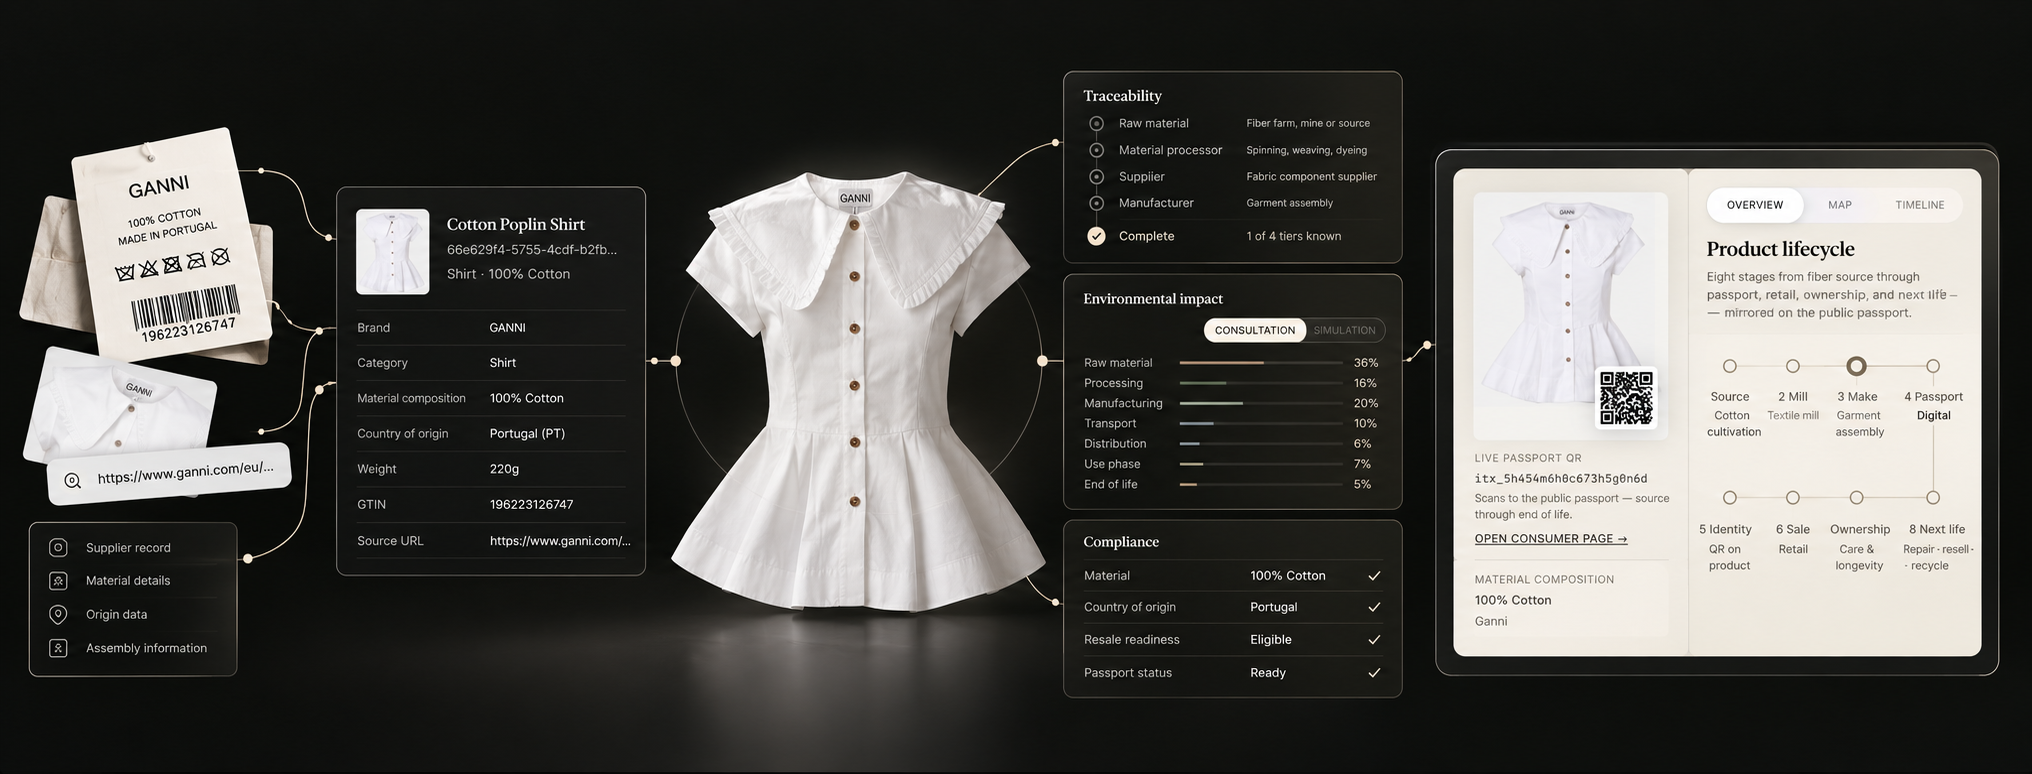
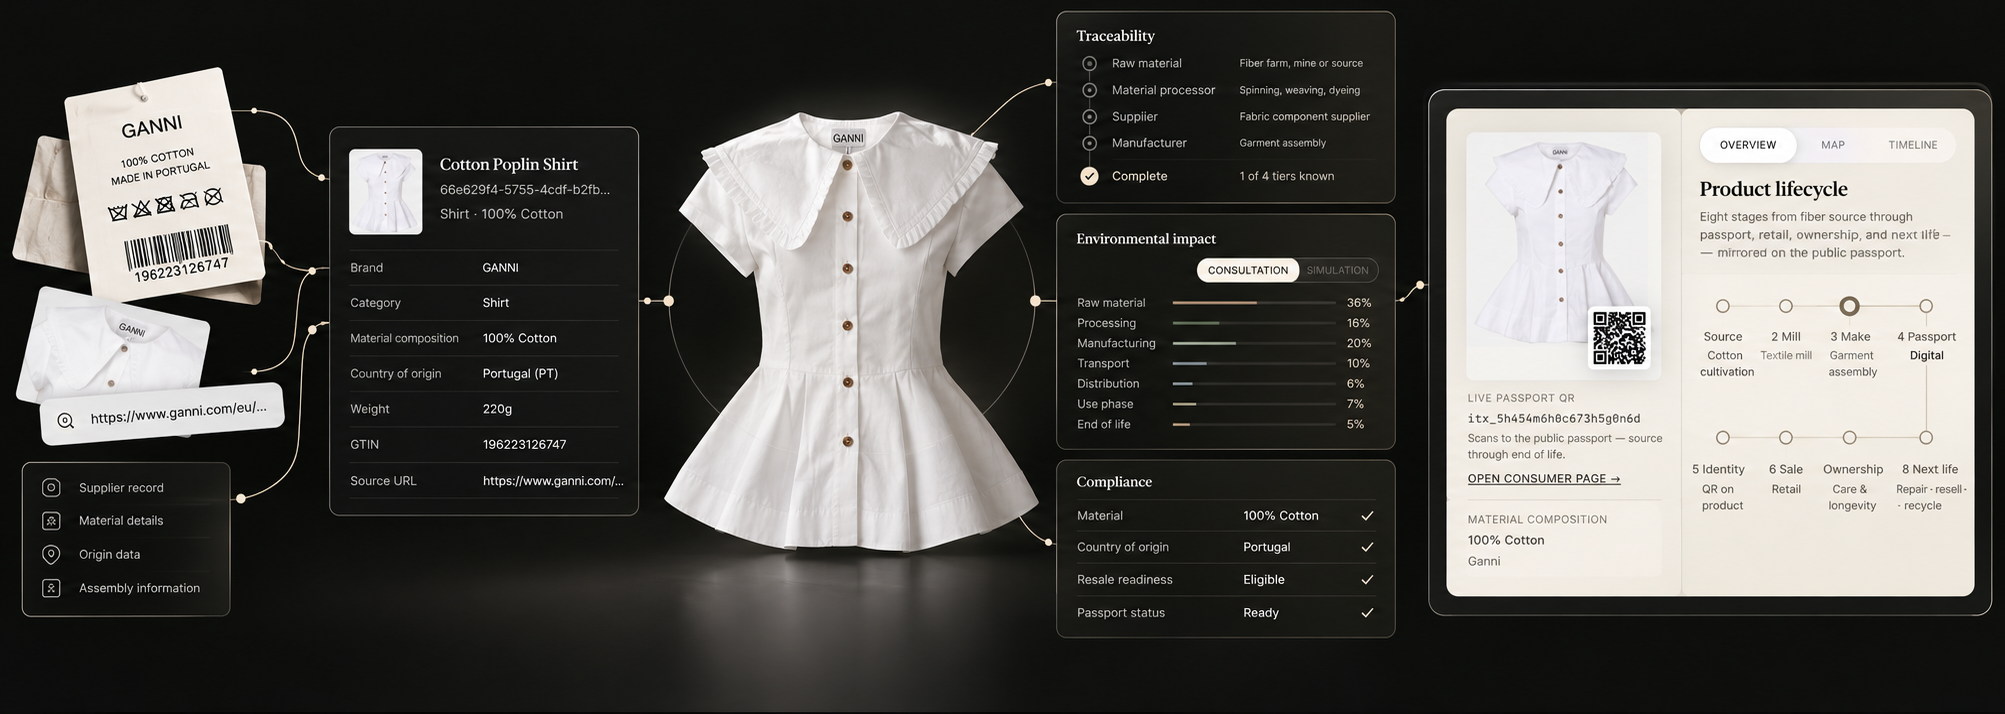
Zoom See it Live hero to cut empty dark margins
Crop top padding from the passport graphic and widen the stage
so the composition fills the frame without oversized side gutters.

diff --git a/app/platform/solutions/solutions.css b/app/platform/solutions/solutions.css
@@ -502,15 +502,15 @@ button.solution-card {
 }
 
 .governed-opener-visual {
-  /* Keep the ultrawide passport graphic compact so more page shows below */
-  width: min(1080px, 100%);
-  margin: 0.75rem auto 0;
+  /* Wider stage so the passport graphic fills the frame without huge side gutters */
+  width: min(1360px, 100%);
+  margin: 0.55rem auto 0;
   flex: 0 0 auto;
   display: flex;
   align-items: center;
   justify-content: center;
   min-height: 0;
-  padding: 0 1rem 1.25rem;
+  padding: 0 0.5rem 1rem;
   background: transparent;
   overflow: visible;
   animation: governed-opener-rise 0.85s ease-out 0.12s both;
@@ -518,18 +518,18 @@ button.solution-card {
 
 @media (min-width: 900px) {
   .governed-opener-visual {
-    width: min(1120px, calc(100% - 3rem));
-    margin-top: 0.35rem;
-    padding: 0 1rem 1.5rem;
+    width: min(1480px, calc(100% - 1.5rem));
+    margin-top: 0.25rem;
+    padding: 0 0.5rem 1.15rem;
   }
 }
 
 .governed-opener-image {
   display: block;
   width: 100%;
-  max-width: 1120px;
+  max-width: 1480px;
   height: auto;
-  max-height: min(42vh, 420px);
+  max-height: min(54vh, 560px);
   margin: 0 auto;
   background: transparent !important;
   object-fit: contain;
@@ -540,19 +540,19 @@ button.solution-card {
 
 @media (min-width: 900px) {
   .governed-opener-image {
-    max-width: 1120px;
-    max-height: min(46vh, 460px);
+    max-width: 1480px;
+    max-height: min(58vh, 620px);
   }
 }
 
 @media (max-width: 639px) {
   .governed-opener-visual {
-    width: min(100%, calc(100% - 0.5rem));
-    padding: 0 0.5rem 1rem;
+    width: min(100%, calc(100% - 0.25rem));
+    padding: 0 0.25rem 0.85rem;
   }
 
   .governed-opener-image {
-    max-height: min(36vh, 280px);
+    max-height: min(42vh, 340px);
   }
 }
 

diff --git a/app/platform/GovernedRecordStageSection.tsx b/app/platform/GovernedRecordStageSection.tsx
@@ -28,10 +28,10 @@ export function GovernedRecordStageSection() {
       <div className="governed-opener-visual">
         {/* Native img keeps PNG alpha reliable for the floating composition. */}
         <img
-          src="/platform/demo-governed-passport.png?v=1"
+          src="/platform/demo-governed-passport.png?v=2"
           alt="INTERTEXE Digital Product Passport for the GANNI Cotton Poplin Shirt — product data, traceability, impact, and live passport."
-          width={2032}
-          height={774}
+          width={2005}
+          height={714}
           className="governed-opener-image"
           decoding="async"
           fetchPriority="high"
